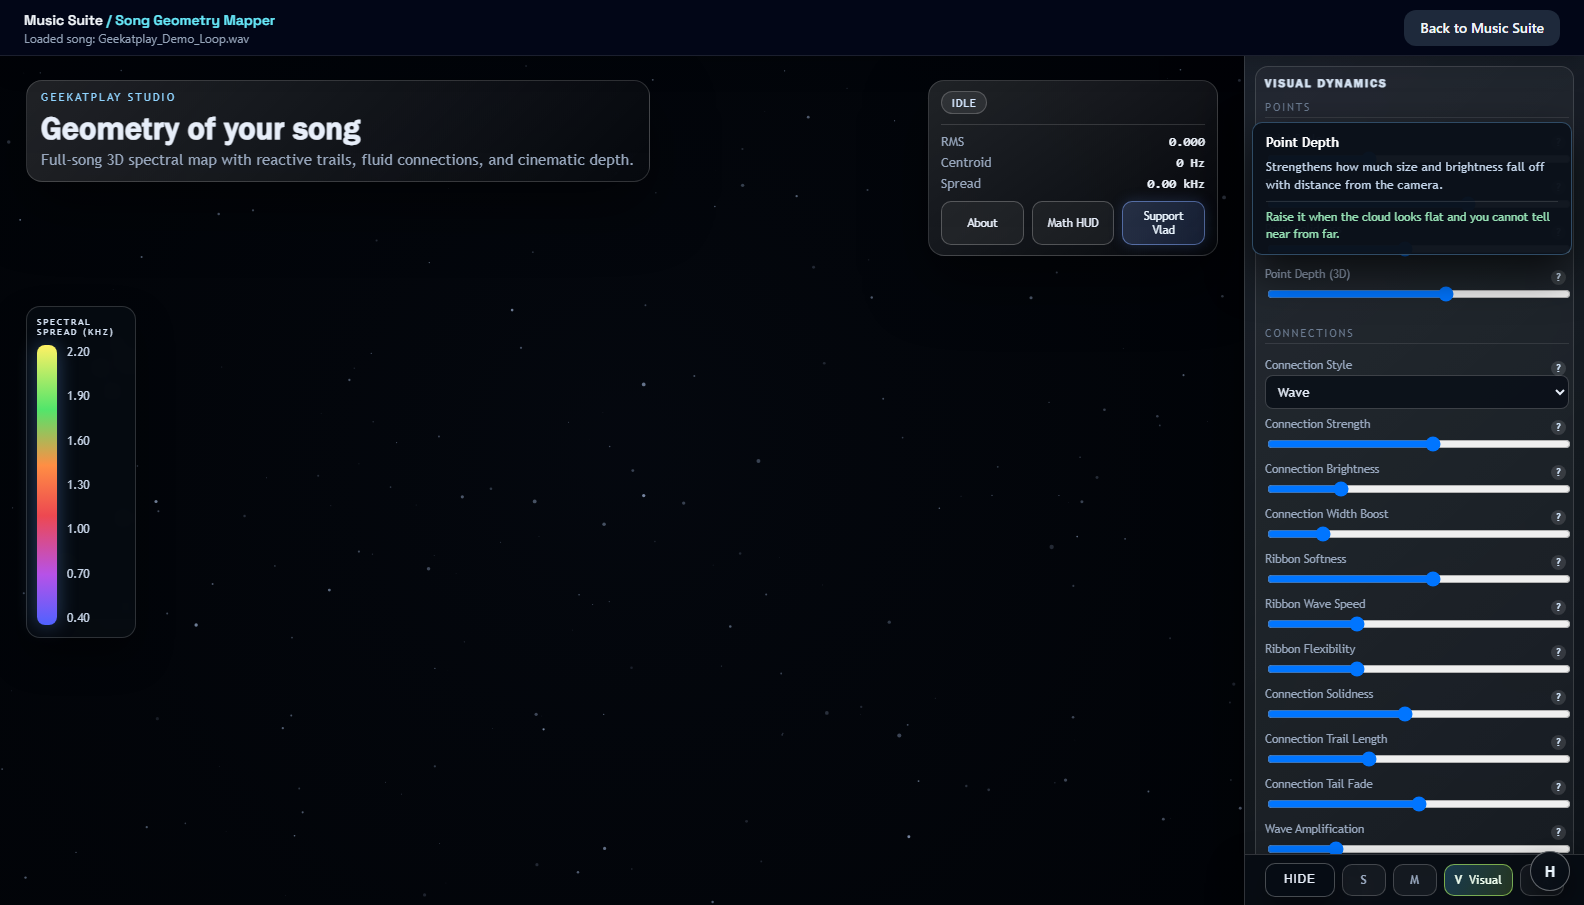
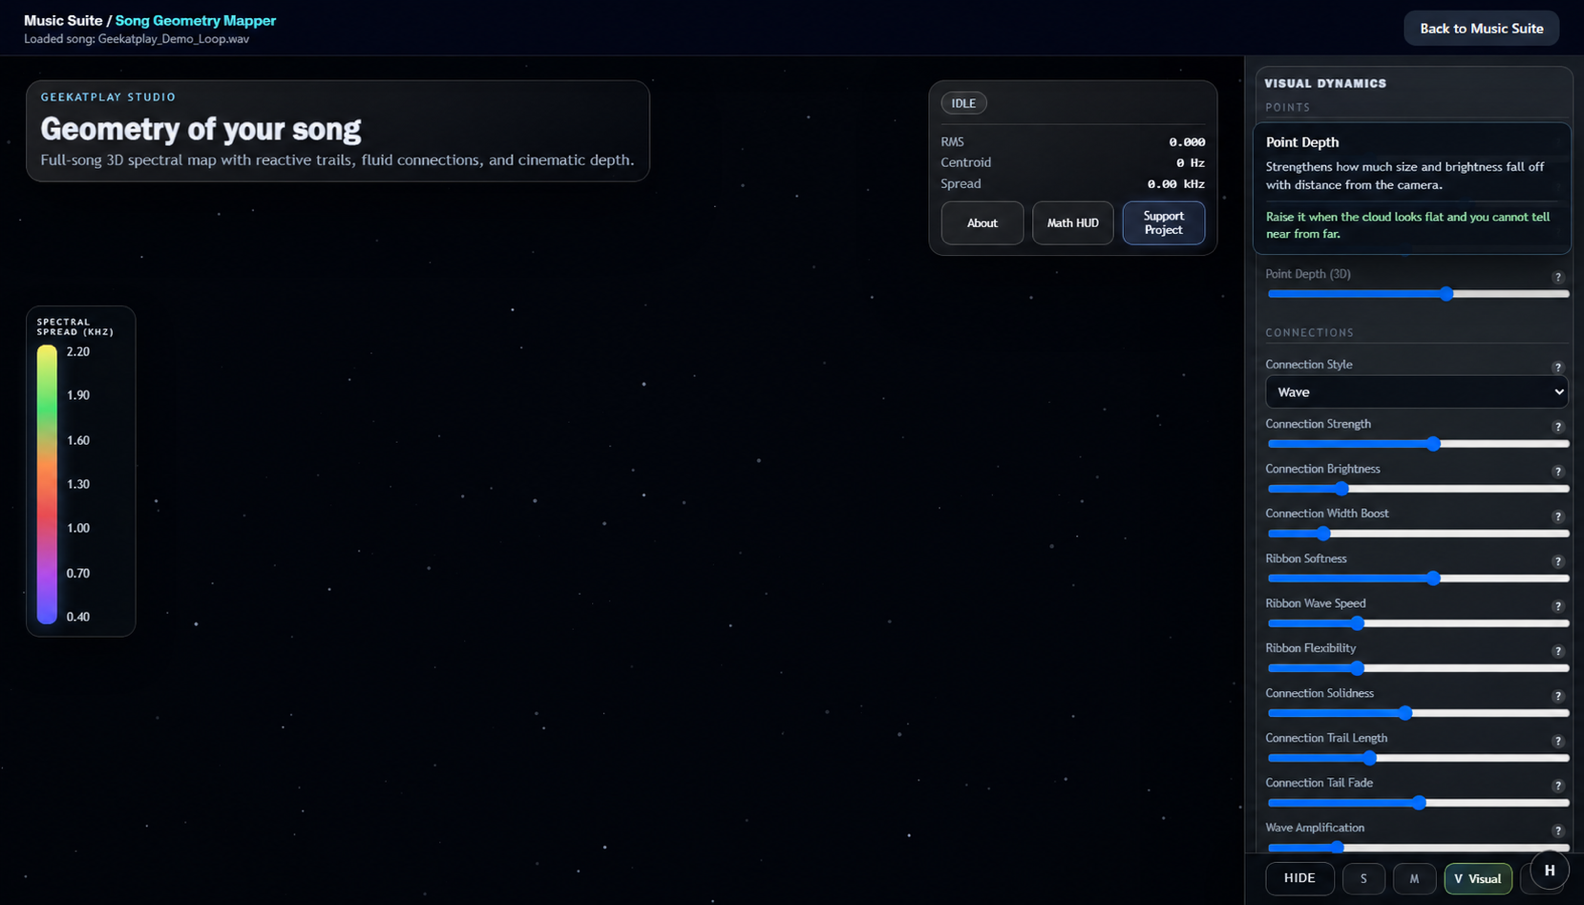
Document verified features and remove personal attribution

diff --git a/apps/web-next/public/song-mapper/app.js b/apps/web-next/public/song-mapper/app.js
@@ -51,7 +51,7 @@ const {
   stopRecordingBtn,
   copyMp4CommandBtn,
   helpBtn,
-  supportVladBtn,
+  supportProjectBtn,
   focusToggleBtn,
   helpModal,
   closeHelpBtn,
@@ -492,7 +492,7 @@ function updateMathPanel(nowMs, force = false) {
 }
 
 function updateSupportButtonTheme() {
-  if (!supportVladBtn) {
+  if (!supportProjectBtn) {
     return;
   }
 
@@ -518,10 +518,10 @@ function updateSupportButtonTheme() {
   const hiB = Math.round(clamp(b * 0.86 + 48, 0, 255));
   const intensity = 0.86;
 
-  supportVladBtn.style.background = `linear-gradient(115deg, rgba(${hiR}, ${hiG}, ${hiB}, ${(0.24 * intensity).toFixed(3)}), rgba(${r}, ${g}, ${b}, ${(0.2 * intensity).toFixed(3)}))`;
-  supportVladBtn.style.borderColor = `rgba(${hiR}, ${hiG}, ${hiB}, ${(0.62 * intensity).toFixed(3)})`;
-  supportVladBtn.style.color = "#ecf6ff";
-  supportVladBtn.style.boxShadow = `0 0 14px rgba(${r}, ${g}, ${b}, ${(glowAlpha * intensity).toFixed(3)})`;
+  supportProjectBtn.style.background = `linear-gradient(115deg, rgba(${hiR}, ${hiG}, ${hiB}, ${(0.24 * intensity).toFixed(3)}), rgba(${r}, ${g}, ${b}, ${(0.2 * intensity).toFixed(3)}))`;
+  supportProjectBtn.style.borderColor = `rgba(${hiR}, ${hiG}, ${hiB}, ${(0.62 * intensity).toFixed(3)})`;
+  supportProjectBtn.style.color = "#ecf6ff";
+  supportProjectBtn.style.boxShadow = `0 0 14px rgba(${r}, ${g}, ${b}, ${(glowAlpha * intensity).toFixed(3)})`;
 }
 
 const DOCK_WIDTH_KEY = "sgm.dock-width";

diff --git a/apps/web-next/app/page.tsx b/apps/web-next/app/page.tsx
@@ -2398,7 +2398,7 @@ export default function HomePage() {
               <div className="rounded-xl border border-border/70 bg-background/40 p-3">
                 <p className="text-xs uppercase tracking-wide text-muted-foreground">Product</p>
                 <p className="mt-1 font-semibold">Geekatplay Studio Music Suite</p>
-                <p className="text-xs text-muted-foreground">Created by Vladimir Chopine</p>
+                <p className="text-xs text-muted-foreground">Created by Geekatplay Studio</p>
               </div>
               <div className="rounded-xl border border-border/70 bg-background/40 p-3">
                 <p className="text-xs uppercase tracking-wide text-muted-foreground">Installed version</p>
@@ -3901,7 +3901,7 @@ export default function HomePage() {
       <footer className="mt-12 border-t border-border/40 py-6 text-center text-xs text-muted-foreground">
         <p>&copy; {new Date().getFullYear()} Geekatplay Studio. All rights reserved.</p>
         <p className="mt-1 text-[11px] opacity-75">
-          Music Suite &bull; Created by Vladimir Chopine &bull; Version 1.0.0
+          Music Suite &bull; Created by Geekatplay Studio &bull; Version 1.0.0
         </p>
       </footer>
     </main>

diff --git a/apps/web-next/public/song-mapper/index.html b/apps/web-next/public/song-mapper/index.html
@@ -31,14 +31,14 @@
             <button id="toggle-waveform-strip" class="btn btn-sm" type="button" aria-label="Toggle waveform scrubber" aria-pressed="true">Waveform</button>
             <button id="toggle-math-panel" class="btn btn-sm" type="button" aria-label="Toggle math analysis panel" aria-pressed="false">Math HUD</button>
             <a
-              id="support-vlad-btn"
+              id="support-project-btn"
               class="btn btn-sm support-btn"
               href="https://geekatplay.gumroad.com/coffee"
               target="_blank"
               rel="noopener noreferrer"
-              aria-label="Support Vlad"
+              aria-label="Support Project"
             >
-              Support Vlad
+              Support Project
             </a>
           </div>
         </div>

diff --git a/apps/web-next/public/song-mapper/app/runtime.js b/apps/web-next/public/song-mapper/app/runtime.js
@@ -103,7 +103,7 @@ export function createRuntime() {
   const legendScale = document.getElementById("legend-scale");
   
   const helpBtn = document.getElementById("help-btn");
-  const supportVladBtn = document.getElementById("support-vlad-btn");
+  const supportProjectBtn = document.getElementById("support-project-btn");
   const focusToggleBtn = document.getElementById("focus-toggle");
   const helpModal = document.getElementById("help-modal");
   const closeHelpBtn = document.getElementById("close-help");
@@ -587,7 +587,7 @@ export function createRuntime() {
     legendBar,
     legendScale,
     helpBtn,
-    supportVladBtn,
+    supportProjectBtn,
     focusToggleBtn,
     helpModal,
     closeHelpBtn,

diff --git a/apps/web-next/app/layout.tsx b/apps/web-next/app/layout.tsx
@@ -5,7 +5,7 @@ import "./globals.css";
 
 export const metadata: Metadata = {
   title: "Geekatplay Studio | Music Suite",
-  description: "Geekatplay Studio Music Suite by Vladimir Chopine: analysis, mastering, visualization, and AI generation."
+  description: "Geekatplay Studio Music Suite: analysis, mastering, visualization, and AI generation."
 };
 
 export default function RootLayout({ children }: { children: ReactNode }) {

diff --git a/audioqi/generation/providers/cloud.py b/audioqi/generation/providers/cloud.py
@@ -10,6 +10,7 @@ and downloaded audio must stay under the suite's upload size limit.
 
 from __future__ import annotations
 
+import contextlib
 import io
 import math
 import subprocess
@@ -581,7 +582,7 @@ class ElevenLabsProvider(_CloudProvider):
         ctx.progress(12.0, "Uploading the clip to ElevenLabs.")
         with tempfile.TemporaryDirectory(dir=projects.scratch_dir()) as tmp:
             mp3 = Path(tmp) / "clip.mp3"
-            encoded = subprocess.run(  # noqa: S603 - fixed argv
+            encoded = subprocess.run(
                 [
                     "ffmpeg",
                     "-v",
@@ -714,7 +715,7 @@ def plan_to_api(sections: list[dict[str, Any]]) -> dict[str, Any]:
             text += "\n" + section["lyrics"]
         chunk: dict[str, Any] = {
             "text": text,
-            "duration_ms": int(round(float(section["seconds"]) * 1000)),
+            "duration_ms": round(float(section["seconds"]) * 1000),
             "positive_styles": list(section.get("styles") or []),
             "negative_styles": list(section.get("avoid") or []),
             "context_adherence": section.get("adherence") or "high",
@@ -818,13 +819,13 @@ def inpaint_plan(
     def ref(a: float, b: float) -> dict[str, Any]:
         return {
             "song_id": song_id,
-            "range": {"start_ms": int(round(a * 1000)), "end_ms": int(round(b * 1000))},
+            "range": {"start_ms": round(a * 1000), "end_ms": round(b * 1000)},
         }
 
     def gen(duration: float) -> dict[str, Any]:
         return {
             "text": gen_text,
-            "duration_ms": int(round(duration * 1000)),
+            "duration_ms": round(duration * 1000),
             "positive_styles": _styles_from(values),
             "negative_styles": [],
             "context_adherence": "high",
@@ -981,12 +982,10 @@ class FalProvider(_CloudProvider):
             elapsed = time.monotonic() - started
             if ctx.cancelled():
                 if isinstance(cancel_url, str) and host_allowed(cancel_url, (FAL_QUEUE_HOST,)):
-                    try:
+                    with contextlib.suppress(requests.RequestException):
                         requests.put(
                             cancel_url, headers=headers, timeout=10.0, allow_redirects=False
                         )
-                    except requests.RequestException:
-                        pass
                 raise EditorError("Generation was cancelled.", 409)
             if elapsed > limit:
                 raise EditorError("Song generation took too long and was abandoned.", 504)

diff --git a/audioqi/generation/providers/acestep.py b/audioqi/generation/providers/acestep.py
@@ -2,6 +2,7 @@
 
 from __future__ import annotations
 
+import contextlib
 import email
 import io
 import json
@@ -556,10 +557,8 @@ class AceStepProvider:
         failures = 0
         while True:
             if ctx.cancelled():
-                try:
+                with contextlib.suppress(requests.RequestException):
                     requests.post(f"{base}/job", params={"id": job_id, "cancel": "1"}, timeout=10.0)
-                except requests.RequestException:
-                    pass
                 raise EditorError("Generation was cancelled.", 409)
             elapsed = time.monotonic() - started
             # No percentage comes back, so progress follows the time we measured for this size.
@@ -829,13 +828,13 @@ def match_level(
     """
     if task in ("repaint", "extend") and source_rate == result_rate:
         offset = (
-            int(round(-float(body["repainting_start"]) * result_rate))
+            round(-float(body["repainting_start"]) * result_rate)
             if body["repainting_start"] < 0
             else 0
         )
-        start = int(round(max(0.0, float(body["repainting_start"])) * source_rate))
+        start = round(max(0.0, float(body["repainting_start"])) * source_rate)
         end = (
-            int(round(float(body["repainting_end"]) * source_rate))
+            round(float(body["repainting_end"]) * source_rate)
             if body["repainting_start"] >= 0
             else 0
         )

diff --git a/tests/test_generation.py b/tests/test_generation.py
@@ -1346,7 +1346,7 @@ def test_extend_before_the_start_is_matched_on_the_original_part() -> None:
 def test_new_audio_is_brought_to_the_source_loudness() -> None:
     source = _source()
     result = _source() * 0.2
-    matched, info = acestep_provider._match_level("cover", {}, source, SR, result, SR)
+    _matched, info = acestep_provider._match_level("cover", {}, source, SR, result, SR)
     assert info["output_lufs"] == pytest.approx(info["matched_lufs"], abs=0.3)
 
 
@@ -1383,9 +1383,9 @@ def test_an_edit_job_sends_the_clip_and_keeps_its_level(
     ).json()
     sent: dict[str, Any] = {}
 
-    def fake_job(self, base, path, body, ctx, low, high, expected, detail, files=None):  # noqa: ANN001
+    def fake_job(self, base, path, body, ctx, low, high, expected, detail, files=None):
         sent.update(path=path, body=body, files=sorted(files or {}))
-        staged, rate = sf.read(str(files["audio"]), dtype="float32")
+        staged, _rate = sf.read(str(files["audio"]), dtype="float32")
         sent["subtype"] = sf.info(str(files["audio"])).subtype
         out = staged.copy()
         out[2 * SR : 4 * SR] *= 0.1

diff --git a/audioqi/generation/providers/yue2_engine.py b/audioqi/generation/providers/yue2_engine.py
@@ -54,7 +54,7 @@ def _importable(python: Path) -> bool:
         if fresh and _probe["python"] == str(python):
             return bool(_probe["ok"])
     try:
-        done = subprocess.run(  # noqa: S603 - fixed argv, interpreter chosen by the operator
+        done = subprocess.run(
             [str(python), "-I", "-c", "import yue2"], capture_output=True, timeout=60, check=False
         )
         ok = done.returncode == 0
@@ -173,7 +173,7 @@ class YuE2Provider:
             log = work / "worker.log"
             ctx.progress(12.0, "Starting YuE2 (the first run downloads the model).")
             with log.open("wb") as sink:
-                child = subprocess.Popen(  # noqa: S603 - fixed argv
+                child = subprocess.Popen(
                     [str(python), "-I", str(WORKER), str(request_file), str(out)],
                     stdout=sink,
                     stderr=subprocess.STDOUT,

diff --git a/audioqi/generation/albums.py b/audioqi/generation/albums.py
@@ -311,7 +311,7 @@ def _run_track(record: dict[str, Any], track: dict[str, Any]) -> None:
             status = "cancelled" if "cancelled" in str(exc).lower() else "failed"
             _set_track(album_id, index, status=status, detail="Stopped.", error=str(exc))
             return
-        except Exception as exc:  # noqa: BLE001 - one bad track must not stop the album
+        except Exception as exc:  # One bad track must not stop the album.
             logger.exception("Album %s track %s failed", album_id, index)
             _set_track(
                 album_id,
@@ -364,7 +364,7 @@ def _loop() -> None:
     while not _STOP.is_set():
         try:
             run_pending()
-        except Exception:  # noqa: BLE001
+        except Exception:
             logger.exception("Album runner error")
         _WAKE.wait(timeout=30.0)
         _WAKE.clear()

diff --git a/tests/test_instruments.py b/tests/test_instruments.py
@@ -922,7 +922,7 @@ def test_an_audition_can_show_the_plugins_own_window(client: TestClient, monkeyp
     seen: dict[str, Any] = {}
     monkeypatch.setattr(engines, "plugin_hosting_available", lambda: True)
 
-    def start(plugin_id, state, notes, seconds, *, play, live, window):  # noqa: ANN001
+    def start(plugin_id, state, notes, seconds, *, play, live, window):
         seen.update(window=window, live=live)
         return "k"
 
@@ -979,4 +979,3 @@ def test_surge_skin_is_built_and_made_the_default(tmp_path, monkeypatch) -> None
     again = surge_skin.ensure()
     assert again["built"] is False and again["defaults"] == []
     assert "mine.surge-skin" in (user / "SurgeXTUserDefaults.xml").read_text()
-

diff --git a/apps/web/app.py b/apps/web/app.py
@@ -42,7 +42,7 @@ app.layout = dbc.Container(
             [
                 html.H1("Geekatplay Studio Music Suite", className="app-title"),
                 html.P(
-                    "Created by Vladimir Chopine — analysis and mastering for individual tracks.",
+                    "Created by Geekatplay Studio — analysis and mastering for individual tracks.",
                     className="app-subtitle",
                 ),
             ],
